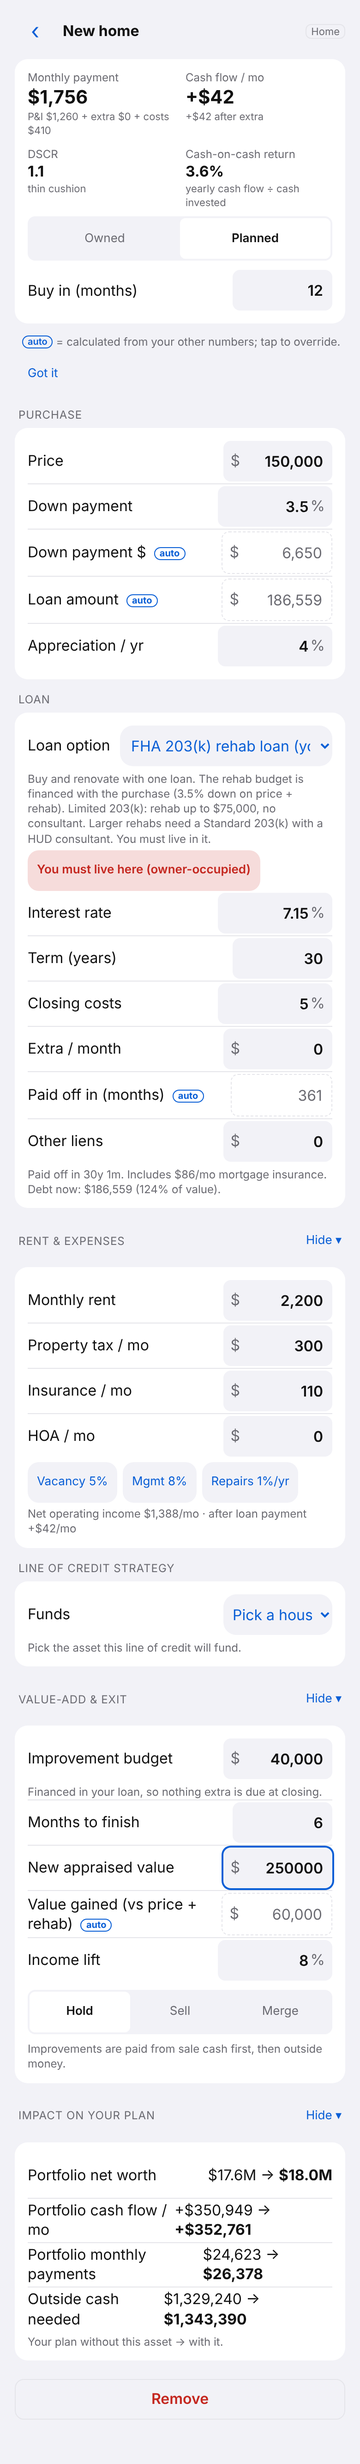
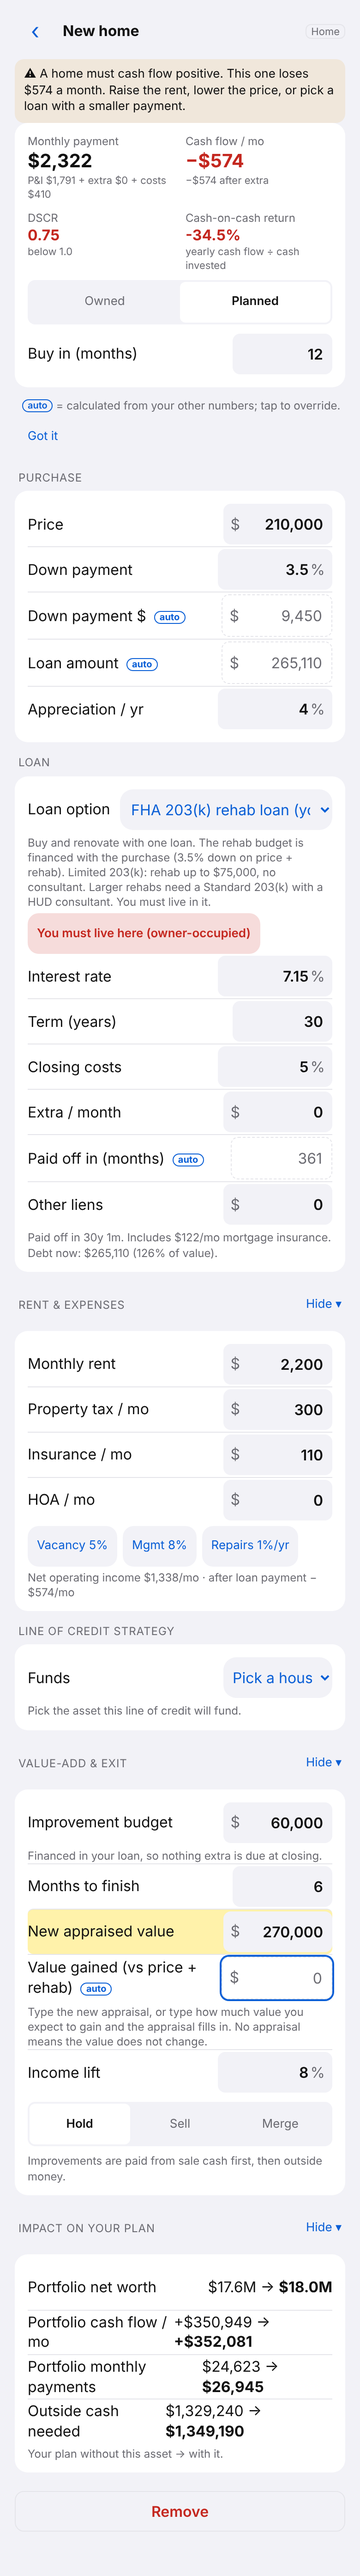
Value gained is editable and drives the new appraised value; auto-filled appraisal follows price + rehab until the user sets their own
Claude-Session: https://claude.ai/code/session_01T1SyQgdTcpALEohR2VebD5

diff --git a/prototype/v4/artifact.html b/prototype/v4/artifact.html
@@ -180,17 +180,17 @@ table.cmp td,table.cmp th{overflow-wrap:anywhere;font-size:12px}
     if (!lo) { h.loanId = 'custom'; return h; }
     h.dp = lo.dp; h.rate = lo.rate; h.term = lo.term; h.io = !!lo.io; h.closingPct = lo.closing; h.loanId = lo.id;
     h.finCapex = !!lo.finRehab; h.mipUp = lo.upfrontMip || 0; h.mipAnn = lo.annualMip || 0; h.ownerOcc = !!lo.ownerOcc;
-    if (lo.finRehab && lo.rehabDefaults && !(+h.capex > 0)) { Object.assign(h, lo.rehabDefaults); if (!(+h.arv > 0)) h.arv = Math.round(((h.price + h.capex) * 1.15) / 1000) * 1000; } /* auto-fill a typical rehab and a new appraisal 15% above total cost, only if none is set */
+    if (lo.finRehab && lo.rehabDefaults && !(+h.capex > 0)) { Object.assign(h, lo.rehabDefaults); if (!(+h.arv > 0)) { h.arv = Math.round(((h.price + h.capex) * 1.15) / 1000) * 1000; h.arvAuto = true; } } /* auto-fill a typical rehab and a new appraisal 15% above total cost, only if none is set */
     return h;
   }
   function newAsset(type, loanId, o) {
     type = TYPES[type] ? type : 'house';
     const h = Object.assign({ id: 'h' + Date.now().toString(36) + (uid++), type, status: 'planned', extra: 0, driver: 'extra', wait: 24, liens: 0, paid: 0, buyIn: 12,
       target: '', growth: null, io: false, closingPct: null, loanId: '', dp: 20, rate: 6.75, term: 360,
-      capex: 0, capexMonths: 6, arv: 0, liftIncome: 0, exit: 'hold', exitMonth: 60, exitLift: 0, mergeInto: '', finCapex: false, mipUp: 0, mipAnn: 0, ownerOcc: false }, DEFAULTS[type]);
+      capex: 0, capexMonths: 6, arv: 0, arvAuto: false, gain: null, liftIncome: 0, exit: 'hold', exitMonth: 60, exitLift: 0, mergeInto: '', finCapex: false, mipUp: 0, mipAnn: 0, ownerOcc: false }, DEFAULTS[type]);
     applyLoan(h, loanId || loansFor(type)[0].id);
     Object.assign(h, o || {});
-    if (h.finCapex && !(o && +o.arv > 0)) h.arv = Math.round(((h.price + h.capex) * 1.15) / 1000) * 1000; /* default new appraisal from the FINAL price + rehab */
+    if (h.finCapex && !(o && +o.arv > 0)) { h.arv = Math.round(((h.price + h.capex) * 1.15) / 1000) * 1000; h.arvAuto = true; } /* default appraisal from the FINAL price + rehab; it follows price/rehab until you type your own appraisal or gain */
     return h;
   }
   const newHouse = (o) => newAsset((o && o.type) || 'house', o && o.loanId, o);
@@ -369,6 +369,8 @@ table.cmp td,table.cmp th{overflow-wrap:anywhere;font-size:12px}
       if (+h.liftValue > 0 && !(+h.arv > 0)) { /* old data stored a % lift: convert it to a dollar appraisal at completion */
         const gv = h.growth == null || !isFinite(+h.growth) ? S.g.appr : +h.growth; h.arv = Math.round(h.price * Math.pow(1 + gv / 100, (h.capexMonths || 0) / 12) * (1 + h.liftValue / 100)); }
       delete h.liftValue; if (!(h.arv > 0)) h.arv = 0;
+      h.arvAuto = !!h.arvAuto && +h.arv > 0;
+      h.gain = h.gain !== null && h.gain !== '' && h.gain !== undefined && isFinite(+h.gain) ? +h.gain : null; /* if set, the appraisal follows price + rehab + gain */
       ['mipUp', 'mipAnn'].forEach((k) => { h[k] = isFinite(+h[k]) ? Math.max(0, +h[k]) : 0; }); h.finCapex = !!h.finCapex; h.ownerOcc = !!h.ownerOcc;
       if (h.term < 12 && !h.io) h.term = 360; h.io = !!h.io;
       if (h.growth != null && !isFinite(+h.growth)) h.growth = null;
@@ -605,7 +607,7 @@ table.cmp td,table.cmp th{overflow-wrap:anywhere;font-size:12px}
     const loanSel = `<div class="f"><span class="lb">Loan option</span><select class="loansel" data-loan="${h.id}" aria-label="Loan option">${E.loansFor(type).map((l) => `<option value="${l.id}" ${h.loanId === l.id ? 'selected' : ''}>${esc(l.name)}</option>`).join('')}<option value="custom" ${lo ? '' : 'selected'}>Custom terms</option></select></div>`;
     const ex = pl.exits[h.id];
     const exitSec = colSec('exit', 'Value-add & exit', h.exit === 'sell' && isFinite(pl.sellAt[h.id]) ? 'sell in ' + mm(pl.sellAt[h.id]) : h.exit === 'merge' && isFinite(pl.mergeAt[h.id]) ? 'merge in ' + mm(pl.mergeAt[h.id]) : h.capex ? 'improve ' + $c(h.capex) : 'hold', `<section class="card" data-testid="exit-section">
-      ${field('Improvement budget', P + 'capex', grp(h.capex), { pre: '$' })}${h.finCapex ? '<p class="note" data-testid="rehab-financed">Financed in your loan, so nothing extra is due at closing.</p>' : ''}${field('Months to finish', P + 'capexMonths', h.capexMonths)}${field('New appraised value', P + 'arv', grp(h.arv), { pre: '$' })}${h.arv > 0 ? field('Value gained (vs price + rehab)', P + 'gain', grp(v.valueGain), { pre: '$', calc: 1, ro: 1 }) : '<p class="note">Enter the appraisal you expect after the work. 0 means the value does not change.</p>'}${h.arv > 0 && h.arv < h.price + (h.capex || 0) ? '<p class="note" data-testid="arv-low">⚠ That appraisal is below price + rehab, so the work loses money.</p>' : ''}${field('Income lift', P + 'liftIncome', r(h.liftIncome, 1), { suf: '%' })}
+      ${field('Improvement budget', P + 'capex', grp(h.capex), { pre: '$' })}${h.finCapex ? '<p class="note" data-testid="rehab-financed">Financed in your loan, so nothing extra is due at closing.</p>' : ''}${field('Months to finish', P + 'capexMonths', h.capexMonths)}${field('New appraised value', P + 'arv', grp(h.arv), { pre: '$' })}${field('Value gained (vs price + rehab)', P + 'gain', h.arv > 0 ? grp(v.valueGain) : '', { pre: '$', calc: 1 })}<p class="note">Type the new appraisal, or type how much value you expect to gain and the appraisal fills in. No appraisal means the value does not change.</p>${h.arv > 0 && h.arv < h.price + (h.capex || 0) ? '<p class="note" data-testid="arv-low">⚠ That appraisal is below price + rehab, so the work loses money.</p>' : ''}${field('Income lift', P + 'liftIncome', r(h.liftIncome, 1), { suf: '%' })}
       <div class="seg" style="margin-top:8px" role="tablist"><button data-exit="hold" class="${h.exit === 'hold' ? 'on' : ''}">Hold</button><button data-exit="sell" class="${h.exit === 'sell' ? 'on' : ''}" data-testid="exit-sell">Sell</button><button data-exit="merge" class="${h.exit === 'merge' ? 'on' : ''}">Merge</button></div>
       ${h.exit === 'sell' ? `${field('Sell in (months)', P + 'exitMonth', h.exitMonth)}${field('Selling costs', P + 'sellCost', r(h.sellCost, 1), { suf: '%' })}${ex ? field('Net proceeds', P + 'proceeds', grp(ex.proceeds), { pre: '$', calc: 1, ro: 1 }) : ''}<p class="note">Proceeds go to cash and count in net worth. Later purchases use that cash before outside money.</p>` : ''}
       ${h.exit === 'merge' ? `${field('Merge in (months)', P + 'exitMonth', h.exitMonth)}<div class="f"><span class="lb">Merge into</span><select class="loansel" data-merge="${h.id}" aria-label="Merge into"><option value="">Choose…</option>${S.houses.filter((x) => x.id !== h.id).map((x) => `<option value="${x.id}" ${h.mergeInto === x.id ? 'selected' : ''}>${esc(x.addr)}</option>`).join('')}</select></div>${field('Synergy lift', P + 'exitLift', r(h.exitLift, 1), { suf: '%' })}<p class="note">When merged, value and income rise by the synergy lift. It stays in your totals.</p>` : ''}
@@ -755,11 +757,15 @@ Money is US dollars as plain numbers. taxAnnual and insuranceAnnual are per YEAR
     else if (k === 'termY') { h.term = Math.max(12, Math.round(n * 12)); }
     else if (k === 'payoff') { const B0 = E.balToday(h), i = h.rate / 1200, m = Math.max(1, Math.round(n)); h.extra = Math.max(0, E.pmt(B0, i, m) - v.P + 0.02); h.driver = 'extra'; /* +2 cents so rounding up never lands one month late */ }
     else if (k === 'price') { h.price = Math.max(0, n); }
+    else if (k === 'arv') { h.arv = Math.max(0, n); h.gain = null; h.arvAuto = false; }
+    else if (k === 'gain') { h.gain = n; h.arvAuto = false; h.arv = Math.max(0, Math.round(h.price + (h.capex || 0) + n)); }
     else if (k === 'rate') { h.rate = Math.min(30, Math.max(0, n)); }
-    else if (k === 'loan' || k === 'need' || k === 'caprate' || k === 'mult' || k === 'proceeds' || k === 'gain') return false;
+    else if (k === 'loan' || k === 'need' || k === 'caprate' || k === 'mult' || k === 'proceeds') return false;
     else if (k === 'growth') h.growth = Math.min(100, Math.max(-50, n));
     else if (k === 'closingPct') h.closingPct = Math.min(20, Math.max(0, n));
     else h[k] = Math.max(0, n);
+    if ((k === 'price' || k === 'capex') && h.arvAuto) h.arv = Math.round(((h.price + (h.capex || 0)) * 1.15) / 1000) * 1000; /* an auto-filled appraisal keeps its 15% margin */
+    else if ((k === 'price' || k === 'capex') && h.gain !== null && isFinite(h.gain)) h.arv = Math.max(0, Math.round(h.price + (h.capex || 0) + h.gain)); /* a typed gain keeps the appraisal in step */
     if (['dp', 'down', 'rate', 'termY'].indexOf(k) >= 0) h.loanId = 'custom';
     return true;
   }

diff --git a/prototype/v4/app.js b/prototype/v4/app.js
@@ -156,7 +156,7 @@
     const loanSel = `<div class="f"><span class="lb">Loan option</span><select class="loansel" data-loan="${h.id}" aria-label="Loan option">${E.loansFor(type).map((l) => `<option value="${l.id}" ${h.loanId === l.id ? 'selected' : ''}>${esc(l.name)}</option>`).join('')}<option value="custom" ${lo ? '' : 'selected'}>Custom terms</option></select></div>`;
     const ex = pl.exits[h.id];
     const exitSec = colSec('exit', 'Value-add & exit', h.exit === 'sell' && isFinite(pl.sellAt[h.id]) ? 'sell in ' + mm(pl.sellAt[h.id]) : h.exit === 'merge' && isFinite(pl.mergeAt[h.id]) ? 'merge in ' + mm(pl.mergeAt[h.id]) : h.capex ? 'improve ' + $c(h.capex) : 'hold', `<section class="card" data-testid="exit-section">
-      ${field('Improvement budget', P + 'capex', grp(h.capex), { pre: '$' })}${h.finCapex ? '<p class="note" data-testid="rehab-financed">Financed in your loan, so nothing extra is due at closing.</p>' : ''}${field('Months to finish', P + 'capexMonths', h.capexMonths)}${field('New appraised value', P + 'arv', grp(h.arv), { pre: '$' })}${h.arv > 0 ? field('Value gained (vs price + rehab)', P + 'gain', grp(v.valueGain), { pre: '$', calc: 1, ro: 1 }) : '<p class="note">Enter the appraisal you expect after the work. 0 means the value does not change.</p>'}${h.arv > 0 && h.arv < h.price + (h.capex || 0) ? '<p class="note" data-testid="arv-low">⚠ That appraisal is below price + rehab, so the work loses money.</p>' : ''}${field('Income lift', P + 'liftIncome', r(h.liftIncome, 1), { suf: '%' })}
+      ${field('Improvement budget', P + 'capex', grp(h.capex), { pre: '$' })}${h.finCapex ? '<p class="note" data-testid="rehab-financed">Financed in your loan, so nothing extra is due at closing.</p>' : ''}${field('Months to finish', P + 'capexMonths', h.capexMonths)}${field('New appraised value', P + 'arv', grp(h.arv), { pre: '$' })}${field('Value gained (vs price + rehab)', P + 'gain', h.arv > 0 ? grp(v.valueGain) : '', { pre: '$', calc: 1 })}<p class="note">Type the new appraisal, or type how much value you expect to gain and the appraisal fills in. No appraisal means the value does not change.</p>${h.arv > 0 && h.arv < h.price + (h.capex || 0) ? '<p class="note" data-testid="arv-low">⚠ That appraisal is below price + rehab, so the work loses money.</p>' : ''}${field('Income lift', P + 'liftIncome', r(h.liftIncome, 1), { suf: '%' })}
       <div class="seg" style="margin-top:8px" role="tablist"><button data-exit="hold" class="${h.exit === 'hold' ? 'on' : ''}">Hold</button><button data-exit="sell" class="${h.exit === 'sell' ? 'on' : ''}" data-testid="exit-sell">Sell</button><button data-exit="merge" class="${h.exit === 'merge' ? 'on' : ''}">Merge</button></div>
       ${h.exit === 'sell' ? `${field('Sell in (months)', P + 'exitMonth', h.exitMonth)}${field('Selling costs', P + 'sellCost', r(h.sellCost, 1), { suf: '%' })}${ex ? field('Net proceeds', P + 'proceeds', grp(ex.proceeds), { pre: '$', calc: 1, ro: 1 }) : ''}<p class="note">Proceeds go to cash and count in net worth. Later purchases use that cash before outside money.</p>` : ''}
       ${h.exit === 'merge' ? `${field('Merge in (months)', P + 'exitMonth', h.exitMonth)}<div class="f"><span class="lb">Merge into</span><select class="loansel" data-merge="${h.id}" aria-label="Merge into"><option value="">Choose…</option>${S.houses.filter((x) => x.id !== h.id).map((x) => `<option value="${x.id}" ${h.mergeInto === x.id ? 'selected' : ''}>${esc(x.addr)}</option>`).join('')}</select></div>${field('Synergy lift', P + 'exitLift', r(h.exitLift, 1), { suf: '%' })}<p class="note">When merged, value and income rise by the synergy lift. It stays in your totals.</p>` : ''}
@@ -306,11 +306,15 @@ Money is US dollars as plain numbers. taxAnnual and insuranceAnnual are per YEAR
     else if (k === 'termY') { h.term = Math.max(12, Math.round(n * 12)); }
     else if (k === 'payoff') { const B0 = E.balToday(h), i = h.rate / 1200, m = Math.max(1, Math.round(n)); h.extra = Math.max(0, E.pmt(B0, i, m) - v.P + 0.02); h.driver = 'extra'; /* +2 cents so rounding up never lands one month late */ }
     else if (k === 'price') { h.price = Math.max(0, n); }
+    else if (k === 'arv') { h.arv = Math.max(0, n); h.gain = null; h.arvAuto = false; }
+    else if (k === 'gain') { h.gain = n; h.arvAuto = false; h.arv = Math.max(0, Math.round(h.price + (h.capex || 0) + n)); }
     else if (k === 'rate') { h.rate = Math.min(30, Math.max(0, n)); }
-    else if (k === 'loan' || k === 'need' || k === 'caprate' || k === 'mult' || k === 'proceeds' || k === 'gain') return false;
+    else if (k === 'loan' || k === 'need' || k === 'caprate' || k === 'mult' || k === 'proceeds') return false;
     else if (k === 'growth') h.growth = Math.min(100, Math.max(-50, n));
     else if (k === 'closingPct') h.closingPct = Math.min(20, Math.max(0, n));
     else h[k] = Math.max(0, n);
+    if ((k === 'price' || k === 'capex') && h.arvAuto) h.arv = Math.round(((h.price + (h.capex || 0)) * 1.15) / 1000) * 1000; /* an auto-filled appraisal keeps its 15% margin */
+    else if ((k === 'price' || k === 'capex') && h.gain !== null && isFinite(h.gain)) h.arv = Math.max(0, Math.round(h.price + (h.capex || 0) + h.gain)); /* a typed gain keeps the appraisal in step */
     if (['dp', 'down', 'rate', 'termY'].indexOf(k) >= 0) h.loanId = 'custom';
     return true;
   }

diff --git a/prototype/v4/engine.js b/prototype/v4/engine.js
@@ -33,17 +33,17 @@
     if (!lo) { h.loanId = 'custom'; return h; }
     h.dp = lo.dp; h.rate = lo.rate; h.term = lo.term; h.io = !!lo.io; h.closingPct = lo.closing; h.loanId = lo.id;
     h.finCapex = !!lo.finRehab; h.mipUp = lo.upfrontMip || 0; h.mipAnn = lo.annualMip || 0; h.ownerOcc = !!lo.ownerOcc;
-    if (lo.finRehab && lo.rehabDefaults && !(+h.capex > 0)) { Object.assign(h, lo.rehabDefaults); if (!(+h.arv > 0)) h.arv = Math.round(((h.price + h.capex) * 1.15) / 1000) * 1000; } /* auto-fill a typical rehab and a new appraisal 15% above total cost, only if none is set */
+    if (lo.finRehab && lo.rehabDefaults && !(+h.capex > 0)) { Object.assign(h, lo.rehabDefaults); if (!(+h.arv > 0)) { h.arv = Math.round(((h.price + h.capex) * 1.15) / 1000) * 1000; h.arvAuto = true; } } /* auto-fill a typical rehab and a new appraisal 15% above total cost, only if none is set */
     return h;
   }
   function newAsset(type, loanId, o) {
     type = TYPES[type] ? type : 'house';
     const h = Object.assign({ id: 'h' + Date.now().toString(36) + (uid++), type, status: 'planned', extra: 0, driver: 'extra', wait: 24, liens: 0, paid: 0, buyIn: 12,
       target: '', growth: null, io: false, closingPct: null, loanId: '', dp: 20, rate: 6.75, term: 360,
-      capex: 0, capexMonths: 6, arv: 0, liftIncome: 0, exit: 'hold', exitMonth: 60, exitLift: 0, mergeInto: '', finCapex: false, mipUp: 0, mipAnn: 0, ownerOcc: false }, DEFAULTS[type]);
+      capex: 0, capexMonths: 6, arv: 0, arvAuto: false, gain: null, liftIncome: 0, exit: 'hold', exitMonth: 60, exitLift: 0, mergeInto: '', finCapex: false, mipUp: 0, mipAnn: 0, ownerOcc: false }, DEFAULTS[type]);
     applyLoan(h, loanId || loansFor(type)[0].id);
     Object.assign(h, o || {});
-    if (h.finCapex && !(o && +o.arv > 0)) h.arv = Math.round(((h.price + h.capex) * 1.15) / 1000) * 1000; /* default new appraisal from the FINAL price + rehab */
+    if (h.finCapex && !(o && +o.arv > 0)) { h.arv = Math.round(((h.price + h.capex) * 1.15) / 1000) * 1000; h.arvAuto = true; } /* default appraisal from the FINAL price + rehab; it follows price/rehab until you type your own appraisal or gain */
     return h;
   }
   const newHouse = (o) => newAsset((o && o.type) || 'house', o && o.loanId, o);
@@ -222,6 +222,8 @@
       if (+h.liftValue > 0 && !(+h.arv > 0)) { /* old data stored a % lift: convert it to a dollar appraisal at completion */
         const gv = h.growth == null || !isFinite(+h.growth) ? S.g.appr : +h.growth; h.arv = Math.round(h.price * Math.pow(1 + gv / 100, (h.capexMonths || 0) / 12) * (1 + h.liftValue / 100)); }
       delete h.liftValue; if (!(h.arv > 0)) h.arv = 0;
+      h.arvAuto = !!h.arvAuto && +h.arv > 0;
+      h.gain = h.gain !== null && h.gain !== '' && h.gain !== undefined && isFinite(+h.gain) ? +h.gain : null; /* if set, the appraisal follows price + rehab + gain */
       ['mipUp', 'mipAnn'].forEach((k) => { h[k] = isFinite(+h[k]) ? Math.max(0, +h[k]) : 0; }); h.finCapex = !!h.finCapex; h.ownerOcc = !!h.ownerOcc;
       if (h.term < 12 && !h.io) h.term = 360; h.io = !!h.io;
       if (h.growth != null && !isFinite(+h.growth)) h.growth = null;

diff --git a/prototype/grader/grade.js b/prototype/grader/grade.js
@@ -376,6 +376,13 @@ async function reqChecks(page) {
     const g = (k) => page.inputValue('[data-p$=".' + k + '"]'); const num = (t) => parseFloat(String(t).replace(/[^0-9.\-]/g, ''));
     P.t(num(await g('dp')) === 3.5 && num(await g('rate')) === 7.15 && num(await g('capex')) === 40000 && num(await g('arv')) > 0, 'dp 3.5, rate 7.15, rehab 40,000 and a new appraised value are auto-filled', 0.5, [await g('dp'), await g('rate'), await g('capex')].join('/'));
     P.t((await page.locator('[data-testid=owner-occ]').count()) === 1 && (await page.locator('[data-testid=rehab-financed]').count()) === 1, 'owner-occupied notice and "rehab financed" note shown', 0.4);
+    await setVal(page, '[data-p$=".price"]', '200000'); await setVal(page, '[data-p$=".capex"]', '40000'); const arv0 = num(await g('arv'));
+    P.t(near(arv0, 276000, 1) && num(await g('gain')) === arv0 - 240000, 'auto-filled appraisal follows price + rehab (200,000 + 40,000 -> 276,000) and shows the value gained', 0.4, arv0 + '/' + await g('gain'));
+    await setVal(page, '[data-p$=".gain"]', '70000'); P.t(num(await g('arv')) === 310000, 'typing a value gain of 70,000 sets the appraisal to price + rehab + gain = 310,000', 0.5, await g('arv'));
+    await setVal(page, '[data-p$=".capex"]', '50000'); P.t(num(await g('arv')) === 320000 && num(await g('gain')) === 70000, 'the typed gain holds when the rehab changes (appraisal 320,000)', 0.4, await g('arv') + '/' + await g('gain'));
+    await setVal(page, '[data-p$=".arv"]', '300000'); P.t(num(await g('gain')) === 300000 - 200000 - 50000, 'typing the appraisal updates the value gained (50,000)', 0.4, await g('gain'));
+    await setVal(page, '[data-p$=".gain"]', '-15000'); P.t(num(await g('arv')) === 235000 && (await page.locator('[data-testid=arv-low]').count()) === 1, 'a negative gain gives an appraisal below cost and shows the warning', 0.3, await g('arv'));
+    await setVal(page, '[data-p$=".gain"]', '70000'); await setVal(page, '[data-p$=".capex"]', '40000');
     await setVal(page, '[data-p$=".capex"]', '90000'); P.t((await page.locator('[data-testid=k203-cap]').count()) === 1, 'rehab over $75,000 shows the Limited 203(k) cap warning', 0.3);
     await setVal(page, '[data-p$=".capex"]', '40000'); await page.locator('[data-loan]').selectOption('conv30'); await page.waitForTimeout(60);
     P.t(num(await g('dp')) === 20 && (await page.locator('[data-testid=owner-occ]').count()) === 0 && (await page.locator('[data-testid=rehab-financed]').count()) === 0, 'switching to Conventional resets terms and removes the 203(k) notices', 0.4);

diff --git a/prototype/grader/report.md b/prototype/grader/report.md
@@ -1,6 +1,6 @@
 # Prototype grader report
 
-Target: `prototype/v4`  |  Run: 2026-11-09T03:59:33.973Z  |  76s
+Target: `prototype/v4`  |  Run: 2026-11-09T04:09:49.147Z  |  77s
 
 ## Automated score: **85.00 / 84.99900000000001** (a separate design review adds 15)
 
@@ -29,7 +29,7 @@ Target: `prototype/v4`  |  Run: 2026-11-09T03:59:33.973Z  |  76s
 | A10 | Exit and improvements through the UI: Hold/Sell/Merge buttons and fields propagate to rows, KPIs and breakdown | 1.70 | 1.70 | 8/8 sub-checks pass |
 | A11 | Sample portfolio on screen: all rows, three types, sane finite headline, no unfunded warning, no DTI warning | 0.97 | 0.97 | 6/6 sub-checks pass |
 | A12 | Credit-line chain on screen: "opens in N mo" and buy months match the engine; raising source extra opens sooner | 0.97 | 0.97 | 3/3 sub-checks pass |
-| A13 | FHA 203(k) through the UI: add flow auto-fills rehab + terms, owner-occupied notice, financed-rehab note, Limited cap warning, switching loan option resets | 0.97 | 0.97 | 6/6 sub-checks pass |
+| A13 | FHA 203(k) through the UI: add flow auto-fills rehab + terms, owner-occupied notice, financed-rehab note, Limited cap warning, switching loan option resets | 0.97 | 0.97 | 11/11 sub-checks pass |
 | B01 | P&I for 240k @6.5% 30y = 1516.96 | 0.32 | 0.32 | got 1516.9632563831167 |
 | B02 | Scheduled balance after 60 mo = 224666.35 | 0.32 | 0.32 | 2/2 sub-checks pass |
 | B03 | Balance after 60 mo with +500 extra = 189329.36 | 0.32 | 0.32 | got 189329.36208686503 |
@@ -42,7 +42,7 @@ Target: `prototype/v4`  |  Run: 2026-11-09T03:59:33.973Z  |  76s
 | B10 | No NaN/Infinity leaks in plan series & KPIs (23 edge scenarios) | 0.64 | 0.64 | 23/23 sub-checks pass |
 | B11 | Funding cycles (A<->B, A->A, 3-cycle) do not hang or throw | 0.32 | 0.32 | ok Infinity,Infinity/0/0,49,98/49,0 |
 | B12 | Net worth at t=0 = sum(value - balance - liens) of assets held at t=0 | 0.32 | 0.32 | 2/2 sub-checks pass |
-| B13 | plan() under 100ms for the sample and 10-asset chain (median of 7) | 0.16 | 0.16 | median 2.7ms |
+| B13 | plan() under 100ms for the sample and 10-asset chain (median of 7) | 0.16 | 0.16 | median 2.8ms |
 | B14 | locMonths matches independent month-by-month simulation (60 random scenarios incl. liens/haircut/appr/paid) | 0.48 | 0.48 | exact 60/60, within1 60/60  |
 | B15 | Debt cap: every credit-line funder stays within cap (loan + liens + drawn LOC) when its target closes | 0.48 | 0.48 | 3/3 sub-checks pass |
 | B16 | Loan options: every option listed, per-type lists, applyLoan fills dp/rate/term/io/closing; payment follows | 0.64 | 0.64 | 5/5 sub-checks pass |
@@ -57,11 +57,11 @@ Target: `prototype/v4`  |  Run: 2026-11-09T03:59:33.973Z  |  76s
 | C01 | At 390x844: summary KPIs, plan headline and the first ledger rows are visible without scrolling | 1.33 | 1.33 | 3/3 sub-checks pass |
 | C02 | Main page has only the per-row extra fields as text inputs (one per asset) | 1.00 | 1.00 | 2/2 sub-checks pass |
 | C03 | No horizontal overflow at 320/390/430 on main, asset, assumptions, add, import | 1.33 | 1.33 | 15/15 sub-checks pass |
-| C04 | Tap targets >= 44x44 (buttons, selects, inputs; label counts for inputs) | 1.33 | 1.33 | 120/120 targets >=44px. Small:  |
-| C05 | All inputs/selects use font-size >= 16px (no iOS zoom) | 0.67 | 0.67 | 68/68 ok  |
+| C04 | Tap targets >= 44x44 (buttons, selects, inputs; label counts for inputs) | 1.33 | 1.33 | 121/121 targets >=44px. Small:  |
+| C05 | All inputs/selects use font-size >= 16px (no iOS zoom) | 0.67 | 0.67 | 69/69 ok  |
 | C06 | Asset page reachable in 1 tap, back in 1 tap; adding an asset takes <= 3 taps | 1.33 | 1.33 | 3/3 sub-checks pass |
 | C07 | Main page stays compact: <= 150px per ledger row (sample), plan below the ledger | 0.67 | 0.67 | avg row 133px x 14, page 3037px |
-| C08 | Text contrast >= 4.5:1 in light and dark mode (main, chart, asset, assumptions, add) | 1.33 | 1.33 | 813/813 text elements pass (light 403/403, dark 410/410).  |
+| C08 | Text contrast >= 4.5:1 in light and dark mode (main, chart, asset, assumptions, add) | 1.33 | 1.33 | 815/815 text elements pass (light 404/404, dark 411/411).  |
 | C09 | Summary-first: one concise summary card (single snapshot, short text), plan card collapsible | 1.00 | 1.00 | 3/3 sub-checks pass |
 | D01 | Manifest valid; icons load with true declared dimensions | 1.14 | 1.14 | 8/8 sub-checks pass |
 | D02 | Service worker (index.html) registers, activates, controls page after reload; precache complete | 1.14 | 1.14 | 3/3 sub-checks pass |
@@ -74,7 +74,7 @@ Target: `prototype/v4`  |  Run: 2026-11-09T03:59:33.973Z  |  76s
 | E01 | Edge inputs (60 cases + compound: zero, 100% down, blanks, garbage, negatives, 1e12, caps, sale/merge/improvement fields) leave no NaN/Infinity/undefined in any page or crash | 1.91 | 1.91 | 65/65 sub-checks pass |
 | E02 | Remove all assets (main page) -> clean empty state with add action; can add again | 0.96 | 0.96 | 3/3 sub-checks pass |
 | E03 | Deleting a funding target clears references (select, storage, plan, merge-into) | 0.96 | 0.96 | 5/5 sub-checks pass |
-| E04 | Every input/select/button has an accessible name (main, asset, assumptions, add, import) | 0.64 | 0.64 | 191/191 named. unnamed:  |
+| E04 | Every input/select/button has an accessible name (main, asset, assumptions, add, import) | 0.64 | 0.64 | 193/193 named. unnamed:  |
 | E05 | Typing 5 digits sequentially keeps focus + full value (re-render safe) on main, asset, assumptions, text field | 0.64 | 0.64 | 5/5 sub-checks pass |
 | E06 | No layout shift while navigating and editing (CLS <= 0.05) | 0.32 | 0.32 | CLS 0.0000 |
 | E07 | No console errors or page errors during all flows | 0.96 | 0.96 | 0 errors:  |
